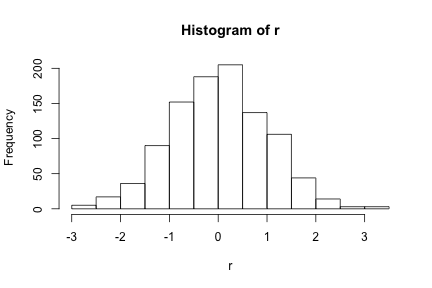
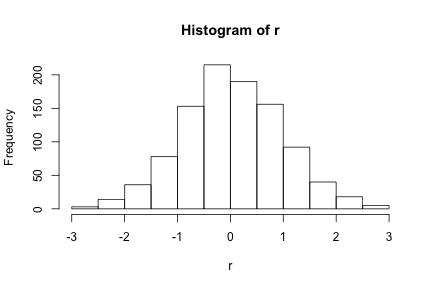
publishing deck

diff --git a/index.html b/index.html
@@ -63,8 +63,7 @@
   <article data-timings="">
     <p>Should we try some code?</p>
 
-<pre><code class="r">set.seed(87367836)
-r &lt;- rnorm(1000)
+<pre><code class="r">r &lt;- rnorm(1000)
 hist(r)
 </code></pre>
 
@@ -76,14 +75,16 @@ hist(r)
 
 <slide class="" id="slide-3" style="background:;">
   <hgroup>
-    <h2>And finally for an old classic</h2>
+    <h2>And another</h2>
   </hgroup>
   <article data-timings="">
-    <pre><code class="r">print(&quot;hello world&quot;)
+    <p>Here&#39;s something else</p>
+
+<pre><code class="r">y &lt;- rnorm(1000, mean = 2, sd = 4)
+plot(r,y)
 </code></pre>
 
-<pre><code>## [1] &quot;hello world&quot;
-</code></pre>
+<p><img src="assets/fig/scatter-1.png" alt="plot of chunk scatter"> </p>
 
 <p>Thanks, that&#39;s it!</p>
 
@@ -109,7 +110,7 @@ hist(r)
     </li>
     <li>
       <a href="#" target="_self" rel='tooltip' 
-        data-slide=3 title='And finally for an old classic'>
+        data-slide=3 title='And another'>
          3
       </a>
     </li>

diff --git a/index.md b/index.md
@@ -23,7 +23,6 @@ knit        : slidify::knit2slides
 Should we try some code?
 
 ```r
-set.seed(87367836)
 r <- rnorm(1000)
 hist(r)
 ```
@@ -32,15 +31,15 @@ hist(r)
 
 ---
 
-## And finally for an old classic
+## And another
+Here's something else
 
 ```r
-print("hello world")
+y <- rnorm(1000, mean = 2, sd = 4)
+plot(r,y)
 ```
 
-```
-## [1] "hello world"
-```
+![plot of chunk scatter](assets/fig/scatter-1.png) 
 
 Thanks, that's it!
 
